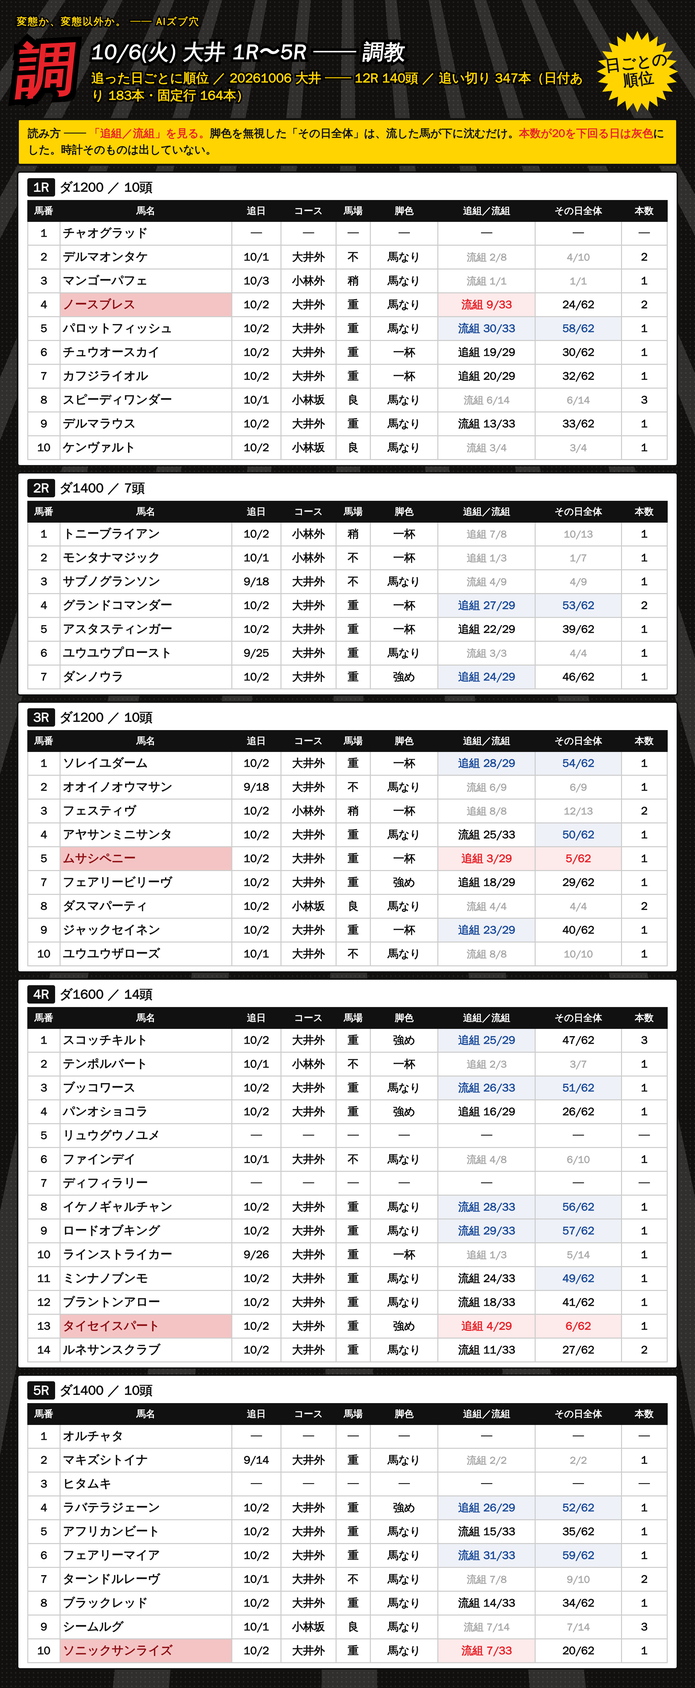
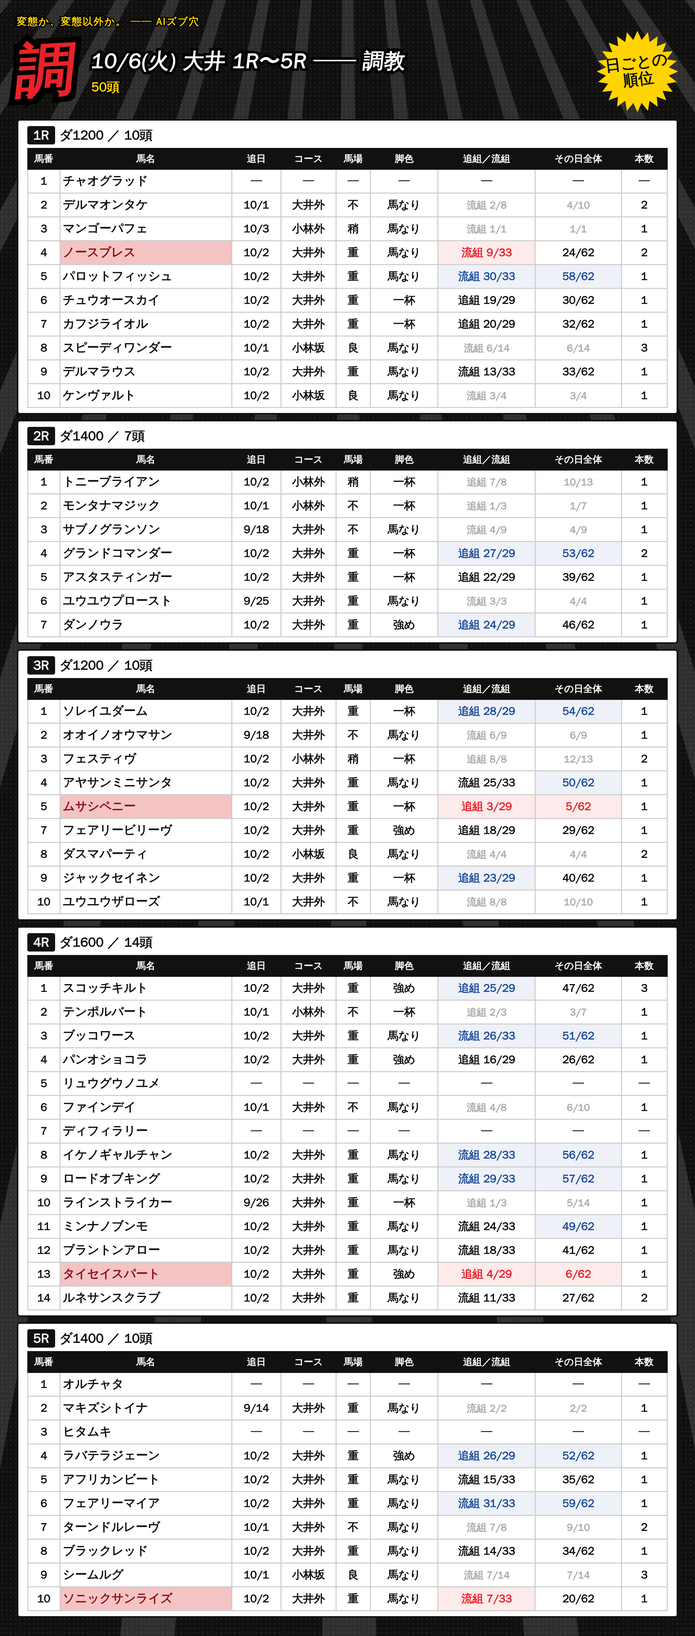
調教カードから読み方の注記と追い切り本数を外した
カードに載っていた3行（追組/流組を見る・その日全体は流した馬が沈むだけ・
本数20未満は灰色）を削除。見出しの「追い切り347本（日付あり183本・
固定行164本）」も頭数だけに差し替えた。

何を見て判断しているかを外に出さないため。

Claude-Session: https://claude.ai/code/session_01RoHscZkr96FNaxQWvUqgEw

diff --git a/notes/live/2026-10-06/ooi_chokyo_1_5.html b/notes/live/2026-10-06/ooi_chokyo_1_5.html
@@ -119,5 +119,5 @@ table.t td.lred{background:#f4c4c4;color:#8f1016;font-weight:900}
 </style></head>
 <body><div class="card"><div class="lines"></div><div class="tone"></div><div class="inner">
 <div class="kicker">変態か、変態以外か。 ── AIズブ穴</div>
-<div class="head"><div class="gekiga">調</div><div class="dateblk"><div class="d1">10/6(火) 大井 1R〜5R ── 調教</div><div class="d2">追った日ごとに順位 ／ 20261006 大井 ── 12R 140頭 ／ 追い切り 347本（日付あり 183本・固定行 164本）</div></div><div class="burst"><span>日ごとの<br>順位</span></div></div>
-<div class="warn">読み方 ── <b>「追組／流組」を見る。</b>脚色を無視した「その日全体」は、流した馬が下に沈むだけ。<b>本数が20を下回る日は灰色</b>にした。時計そのものは出していない。</div><div class="box"><div class="rn"><span>1R</span>ダ1200 ／ 10頭</div><table class="t"><tr><th style="width:56px">馬番</th><th style="width:300px">馬名</th><th style="width:86px">追日</th><th style="width:96px">コース</th><th style="width:60px">馬場</th><th style="width:118px">脚色</th><th style="width:170px">追組／流組</th><th style="width:150px">その日全体</th><th style="width:80px">本数</th></tr><tr><td>1</td><td class="l">チャオグラッド</td><td>─</td><td>─</td><td>─</td><td>─</td><td>─</td><td>─</td><td>─</td></tr><tr><td>2</td><td class="l">デルマオンタケ</td><td>10/1</td><td>大井外</td><td>不</td><td>馬なり</td><td class="thin">流組 2/8</td><td class="thin">4/10</td><td>2</td></tr><tr><td>3</td><td class="l">マンゴーパフェ</td><td>10/3</td><td>小林外</td><td>稍</td><td>馬なり</td><td class="thin">流組 1/1</td><td class="thin">1/1</td><td>1</td></tr><tr><td>4</td><td class="l lred">ノースブレス</td><td>10/2</td><td>大井外</td><td>重</td><td>馬なり</td><td class="hi">流組 9/33</td><td class="">24/62</td><td>2</td></tr><tr><td>5</td><td class="l">パロットフィッシュ</td><td>10/2</td><td>大井外</td><td>重</td><td>馬なり</td><td class="lo">流組 30/33</td><td class="lo">58/62</td><td>1</td></tr><tr><td>6</td><td class="l">チュウオースカイ</td><td>10/2</td><td>大井外</td><td>重</td><td>一杯</td><td class="">追組 19/29</td><td class="">30/62</td><td>1</td></tr><tr><td>7</td><td class="l">カフジライオル</td><td>10/2</td><td>大井外</td><td>重</td><td>一杯</td><td class="">追組 20/29</td><td class="">32/62</td><td>1</td></tr><tr><td>8</td><td class="l">スピーディワンダー</td><td>10/1</td><td>小林坂</td><td>良</td><td>馬なり</td><td class="thin">流組 6/14</td><td class="thin">6/14</td><td>3</td></tr><tr><td>9</td><td class="l">デルマラウス</td><td>10/2</td><td>大井外</td><td>重</td><td>馬なり</td><td class="">流組 13/33</td><td class="">33/62</td><td>1</td></tr><tr><td>10</td><td class="l">ケンヴァルト</td><td>10/2</td><td>小林坂</td><td>良</td><td>馬なり</td><td class="thin">流組 3/4</td><td class="thin">3/4</td><td>1</td></tr></table></div><div class="box"><div class="rn"><span>2R</span>ダ1400 ／ 7頭</div><table class="t"><tr><th style="width:56px">馬番</th><th style="width:300px">馬名</th><th style="width:86px">追日</th><th style="width:96px">コース</th><th style="width:60px">馬場</th><th style="width:118px">脚色</th><th style="width:170px">追組／流組</th><th style="width:150px">その日全体</th><th style="width:80px">本数</th></tr><tr><td>1</td><td class="l">トニーブライアン</td><td>10/2</td><td>小林外</td><td>稍</td><td>一杯</td><td class="thin">追組 7/8</td><td class="thin">10/13</td><td>1</td></tr><tr><td>2</td><td class="l">モンタナマジック</td><td>10/1</td><td>小林外</td><td>不</td><td>一杯</td><td class="thin">追組 1/3</td><td class="thin">1/7</td><td>1</td></tr><tr><td>3</td><td class="l">サブノグランソン</td><td>9/18</td><td>大井外</td><td>不</td><td>馬なり</td><td class="thin">流組 4/9</td><td class="thin">4/9</td><td>1</td></tr><tr><td>4</td><td class="l">グランドコマンダー</td><td>10/2</td><td>大井外</td><td>重</td><td>一杯</td><td class="lo">追組 27/29</td><td class="lo">53/62</td><td>2</td></tr><tr><td>5</td><td class="l">アスタスティンガー</td><td>10/2</td><td>大井外</td><td>重</td><td>一杯</td><td class="">追組 22/29</td><td class="">39/62</td><td>1</td></tr><tr><td>6</td><td class="l">ユウユウプロースト</td><td>9/25</td><td>大井外</td><td>重</td><td>馬なり</td><td class="thin">流組 3/3</td><td class="thin">4/4</td><td>1</td></tr><tr><td>7</td><td class="l">ダンノウラ</td><td>10/2</td><td>大井外</td><td>重</td><td>強め</td><td class="lo">追組 24/29</td><td class="">46/62</td><td>1</td></tr></table></div><div class="box"><div class="rn"><span>3R</span>ダ1200 ／ 10頭</div><table class="t"><tr><th style="width:56px">馬番</th><th style="width:300px">馬名</th><th style="width:86px">追日</th><th style="width:96px">コース</th><th style="width:60px">馬場</th><th style="width:118px">脚色</th><th style="width:170px">追組／流組</th><th style="width:150px">その日全体</th><th style="width:80px">本数</th></tr><tr><td>1</td><td class="l">ソレイユダーム</td><td>10/2</td><td>大井外</td><td>重</td><td>一杯</td><td class="lo">追組 28/29</td><td class="lo">54/62</td><td>1</td></tr><tr><td>2</td><td class="l">オオイノオウマサン</td><td>9/18</td><td>大井外</td><td>不</td><td>馬なり</td><td class="thin">流組 6/9</td><td class="thin">6/9</td><td>1</td></tr><tr><td>3</td><td class="l">フェスティヴ</td><td>10/2</td><td>小林外</td><td>稍</td><td>一杯</td><td class="thin">追組 8/8</td><td class="thin">12/13</td><td>2</td></tr><tr><td>4</td><td class="l">アヤサンミニサンタ</td><td>10/2</td><td>大井外</td><td>重</td><td>馬なり</td><td class="">流組 25/33</td><td class="lo">50/62</td><td>1</td></tr><tr><td>5</td><td class="l lred">ムサシペニー</td><td>10/2</td><td>大井外</td><td>重</td><td>一杯</td><td class="hi">追組 3/29</td><td class="hi">5/62</td><td>1</td></tr><tr><td>7</td><td class="l">フェアリービリーヴ</td><td>10/2</td><td>大井外</td><td>重</td><td>強め</td><td class="">追組 18/29</td><td class="">29/62</td><td>1</td></tr><tr><td>8</td><td class="l">ダスマパーティ</td><td>10/2</td><td>小林坂</td><td>良</td><td>馬なり</td><td class="thin">流組 4/4</td><td class="thin">4/4</td><td>2</td></tr><tr><td>9</td><td class="l">ジャックセイネン</td><td>10/2</td><td>大井外</td><td>重</td><td>一杯</td><td class="lo">追組 23/29</td><td class="">40/62</td><td>1</td></tr><tr><td>10</td><td class="l">ユウユウザローズ</td><td>10/1</td><td>大井外</td><td>不</td><td>馬なり</td><td class="thin">流組 8/8</td><td class="thin">10/10</td><td>1</td></tr></table></div><div class="box"><div class="rn"><span>4R</span>ダ1600 ／ 14頭</div><table class="t"><tr><th style="width:56px">馬番</th><th style="width:300px">馬名</th><th style="width:86px">追日</th><th style="width:96px">コース</th><th style="width:60px">馬場</th><th style="width:118px">脚色</th><th style="width:170px">追組／流組</th><th style="width:150px">その日全体</th><th style="width:80px">本数</th></tr><tr><td>1</td><td class="l">スコッチキルト</td><td>10/2</td><td>大井外</td><td>重</td><td>強め</td><td class="lo">追組 25/29</td><td class="">47/62</td><td>3</td></tr><tr><td>2</td><td class="l">テンポルバート</td><td>10/1</td><td>小林外</td><td>不</td><td>一杯</td><td class="thin">追組 2/3</td><td class="thin">3/7</td><td>1</td></tr><tr><td>3</td><td class="l">ブッコワース</td><td>10/2</td><td>大井外</td><td>重</td><td>馬なり</td><td class="lo">流組 26/33</td><td class="lo">51/62</td><td>1</td></tr><tr><td>4</td><td class="l">パンオショコラ</td><td>10/2</td><td>大井外</td><td>重</td><td>強め</td><td class="">追組 16/29</td><td class="">26/62</td><td>1</td></tr><tr><td>5</td><td class="l">リュウグウノユメ</td><td>─</td><td>─</td><td>─</td><td>─</td><td>─</td><td>─</td><td>─</td></tr><tr><td>6</td><td class="l">ファインデイ</td><td>10/1</td><td>大井外</td><td>不</td><td>馬なり</td><td class="thin">流組 4/8</td><td class="thin">6/10</td><td>1</td></tr><tr><td>7</td><td class="l">ディフィラリー</td><td>─</td><td>─</td><td>─</td><td>─</td><td>─</td><td>─</td><td>─</td></tr><tr><td>8</td><td class="l">イケノギャルチャン</td><td>10/2</td><td>大井外</td><td>重</td><td>馬なり</td><td class="lo">流組 28/33</td><td class="lo">56/62</td><td>1</td></tr><tr><td>9</td><td class="l">ロードオブキング</td><td>10/2</td><td>大井外</td><td>重</td><td>馬なり</td><td class="lo">流組 29/33</td><td class="lo">57/62</td><td>1</td></tr><tr><td>10</td><td class="l">ラインストライカー</td><td>9/26</td><td>大井外</td><td>重</td><td>一杯</td><td class="thin">追組 1/3</td><td class="thin">5/14</td><td>1</td></tr><tr><td>11</td><td class="l">ミンナノブンモ</td><td>10/2</td><td>大井外</td><td>重</td><td>馬なり</td><td class="">流組 24/33</td><td class="lo">49/62</td><td>1</td></tr><tr><td>12</td><td class="l">ブラントンアロー</td><td>10/2</td><td>大井外</td><td>重</td><td>馬なり</td><td class="">流組 18/33</td><td class="">41/62</td><td>1</td></tr><tr><td>13</td><td class="l lred">タイセイスパート</td><td>10/2</td><td>大井外</td><td>重</td><td>強め</td><td class="hi">追組 4/29</td><td class="hi">6/62</td><td>1</td></tr><tr><td>14</td><td class="l">ルネサンスクラブ</td><td>10/2</td><td>大井外</td><td>重</td><td>馬なり</td><td class="">流組 11/33</td><td class="">27/62</td><td>2</td></tr></table></div><div class="box"><div class="rn"><span>5R</span>ダ1400 ／ 10頭</div><table class="t"><tr><th style="width:56px">馬番</th><th style="width:300px">馬名</th><th style="width:86px">追日</th><th style="width:96px">コース</th><th style="width:60px">馬場</th><th style="width:118px">脚色</th><th style="width:170px">追組／流組</th><th style="width:150px">その日全体</th><th style="width:80px">本数</th></tr><tr><td>1</td><td class="l">オルチャタ</td><td>─</td><td>─</td><td>─</td><td>─</td><td>─</td><td>─</td><td>─</td></tr><tr><td>2</td><td class="l">マキズシトイナ</td><td>9/14</td><td>大井外</td><td>重</td><td>馬なり</td><td class="thin">流組 2/2</td><td class="thin">2/2</td><td>1</td></tr><tr><td>3</td><td class="l">ヒタムキ</td><td>─</td><td>─</td><td>─</td><td>─</td><td>─</td><td>─</td><td>─</td></tr><tr><td>4</td><td class="l">ラバテラジェーン</td><td>10/2</td><td>大井外</td><td>重</td><td>強め</td><td class="lo">追組 26/29</td><td class="lo">52/62</td><td>1</td></tr><tr><td>5</td><td class="l">アフリカンビート</td><td>10/2</td><td>大井外</td><td>重</td><td>馬なり</td><td class="">流組 15/33</td><td class="">35/62</td><td>1</td></tr><tr><td>6</td><td class="l">フェアリーマイア</td><td>10/2</td><td>大井外</td><td>重</td><td>馬なり</td><td class="lo">流組 31/33</td><td class="lo">59/62</td><td>1</td></tr><tr><td>7</td><td class="l">ターンドルレーヴ</td><td>10/1</td><td>大井外</td><td>不</td><td>馬なり</td><td class="thin">流組 7/8</td><td class="thin">9/10</td><td>2</td></tr><tr><td>8</td><td class="l">ブラックレッド</td><td>10/2</td><td>大井外</td><td>重</td><td>馬なり</td><td class="">流組 14/33</td><td class="">34/62</td><td>1</td></tr><tr><td>9</td><td class="l">シームルグ</td><td>10/1</td><td>小林坂</td><td>良</td><td>馬なり</td><td class="thin">流組 7/14</td><td class="thin">7/14</td><td>3</td></tr><tr><td>10</td><td class="l lred">ソニックサンライズ</td><td>10/2</td><td>大井外</td><td>重</td><td>馬なり</td><td class="hi">流組 7/33</td><td class="">20/62</td><td>1</td></tr></table></div></div></div></body></html>
+<div class="head"><div class="gekiga">調</div><div class="dateblk"><div class="d1">10/6(火) 大井 1R〜5R ── 調教</div><div class="d2">50頭</div></div><div class="burst"><span>日ごとの<br>順位</span></div></div>
+<div class="box"><div class="rn"><span>1R</span>ダ1200 ／ 10頭</div><table class="t"><tr><th style="width:56px">馬番</th><th style="width:300px">馬名</th><th style="width:86px">追日</th><th style="width:96px">コース</th><th style="width:60px">馬場</th><th style="width:118px">脚色</th><th style="width:170px">追組／流組</th><th style="width:150px">その日全体</th><th style="width:80px">本数</th></tr><tr><td>1</td><td class="l">チャオグラッド</td><td>─</td><td>─</td><td>─</td><td>─</td><td>─</td><td>─</td><td>─</td></tr><tr><td>2</td><td class="l">デルマオンタケ</td><td>10/1</td><td>大井外</td><td>不</td><td>馬なり</td><td class="thin">流組 2/8</td><td class="thin">4/10</td><td>2</td></tr><tr><td>3</td><td class="l">マンゴーパフェ</td><td>10/3</td><td>小林外</td><td>稍</td><td>馬なり</td><td class="thin">流組 1/1</td><td class="thin">1/1</td><td>1</td></tr><tr><td>4</td><td class="l lred">ノースブレス</td><td>10/2</td><td>大井外</td><td>重</td><td>馬なり</td><td class="hi">流組 9/33</td><td class="">24/62</td><td>2</td></tr><tr><td>5</td><td class="l">パロットフィッシュ</td><td>10/2</td><td>大井外</td><td>重</td><td>馬なり</td><td class="lo">流組 30/33</td><td class="lo">58/62</td><td>1</td></tr><tr><td>6</td><td class="l">チュウオースカイ</td><td>10/2</td><td>大井外</td><td>重</td><td>一杯</td><td class="">追組 19/29</td><td class="">30/62</td><td>1</td></tr><tr><td>7</td><td class="l">カフジライオル</td><td>10/2</td><td>大井外</td><td>重</td><td>一杯</td><td class="">追組 20/29</td><td class="">32/62</td><td>1</td></tr><tr><td>8</td><td class="l">スピーディワンダー</td><td>10/1</td><td>小林坂</td><td>良</td><td>馬なり</td><td class="thin">流組 6/14</td><td class="thin">6/14</td><td>3</td></tr><tr><td>9</td><td class="l">デルマラウス</td><td>10/2</td><td>大井外</td><td>重</td><td>馬なり</td><td class="">流組 13/33</td><td class="">33/62</td><td>1</td></tr><tr><td>10</td><td class="l">ケンヴァルト</td><td>10/2</td><td>小林坂</td><td>良</td><td>馬なり</td><td class="thin">流組 3/4</td><td class="thin">3/4</td><td>1</td></tr></table></div><div class="box"><div class="rn"><span>2R</span>ダ1400 ／ 7頭</div><table class="t"><tr><th style="width:56px">馬番</th><th style="width:300px">馬名</th><th style="width:86px">追日</th><th style="width:96px">コース</th><th style="width:60px">馬場</th><th style="width:118px">脚色</th><th style="width:170px">追組／流組</th><th style="width:150px">その日全体</th><th style="width:80px">本数</th></tr><tr><td>1</td><td class="l">トニーブライアン</td><td>10/2</td><td>小林外</td><td>稍</td><td>一杯</td><td class="thin">追組 7/8</td><td class="thin">10/13</td><td>1</td></tr><tr><td>2</td><td class="l">モンタナマジック</td><td>10/1</td><td>小林外</td><td>不</td><td>一杯</td><td class="thin">追組 1/3</td><td class="thin">1/7</td><td>1</td></tr><tr><td>3</td><td class="l">サブノグランソン</td><td>9/18</td><td>大井外</td><td>不</td><td>馬なり</td><td class="thin">流組 4/9</td><td class="thin">4/9</td><td>1</td></tr><tr><td>4</td><td class="l">グランドコマンダー</td><td>10/2</td><td>大井外</td><td>重</td><td>一杯</td><td class="lo">追組 27/29</td><td class="lo">53/62</td><td>2</td></tr><tr><td>5</td><td class="l">アスタスティンガー</td><td>10/2</td><td>大井外</td><td>重</td><td>一杯</td><td class="">追組 22/29</td><td class="">39/62</td><td>1</td></tr><tr><td>6</td><td class="l">ユウユウプロースト</td><td>9/25</td><td>大井外</td><td>重</td><td>馬なり</td><td class="thin">流組 3/3</td><td class="thin">4/4</td><td>1</td></tr><tr><td>7</td><td class="l">ダンノウラ</td><td>10/2</td><td>大井外</td><td>重</td><td>強め</td><td class="lo">追組 24/29</td><td class="">46/62</td><td>1</td></tr></table></div><div class="box"><div class="rn"><span>3R</span>ダ1200 ／ 10頭</div><table class="t"><tr><th style="width:56px">馬番</th><th style="width:300px">馬名</th><th style="width:86px">追日</th><th style="width:96px">コース</th><th style="width:60px">馬場</th><th style="width:118px">脚色</th><th style="width:170px">追組／流組</th><th style="width:150px">その日全体</th><th style="width:80px">本数</th></tr><tr><td>1</td><td class="l">ソレイユダーム</td><td>10/2</td><td>大井外</td><td>重</td><td>一杯</td><td class="lo">追組 28/29</td><td class="lo">54/62</td><td>1</td></tr><tr><td>2</td><td class="l">オオイノオウマサン</td><td>9/18</td><td>大井外</td><td>不</td><td>馬なり</td><td class="thin">流組 6/9</td><td class="thin">6/9</td><td>1</td></tr><tr><td>3</td><td class="l">フェスティヴ</td><td>10/2</td><td>小林外</td><td>稍</td><td>一杯</td><td class="thin">追組 8/8</td><td class="thin">12/13</td><td>2</td></tr><tr><td>4</td><td class="l">アヤサンミニサンタ</td><td>10/2</td><td>大井外</td><td>重</td><td>馬なり</td><td class="">流組 25/33</td><td class="lo">50/62</td><td>1</td></tr><tr><td>5</td><td class="l lred">ムサシペニー</td><td>10/2</td><td>大井外</td><td>重</td><td>一杯</td><td class="hi">追組 3/29</td><td class="hi">5/62</td><td>1</td></tr><tr><td>7</td><td class="l">フェアリービリーヴ</td><td>10/2</td><td>大井外</td><td>重</td><td>強め</td><td class="">追組 18/29</td><td class="">29/62</td><td>1</td></tr><tr><td>8</td><td class="l">ダスマパーティ</td><td>10/2</td><td>小林坂</td><td>良</td><td>馬なり</td><td class="thin">流組 4/4</td><td class="thin">4/4</td><td>2</td></tr><tr><td>9</td><td class="l">ジャックセイネン</td><td>10/2</td><td>大井外</td><td>重</td><td>一杯</td><td class="lo">追組 23/29</td><td class="">40/62</td><td>1</td></tr><tr><td>10</td><td class="l">ユウユウザローズ</td><td>10/1</td><td>大井外</td><td>不</td><td>馬なり</td><td class="thin">流組 8/8</td><td class="thin">10/10</td><td>1</td></tr></table></div><div class="box"><div class="rn"><span>4R</span>ダ1600 ／ 14頭</div><table class="t"><tr><th style="width:56px">馬番</th><th style="width:300px">馬名</th><th style="width:86px">追日</th><th style="width:96px">コース</th><th style="width:60px">馬場</th><th style="width:118px">脚色</th><th style="width:170px">追組／流組</th><th style="width:150px">その日全体</th><th style="width:80px">本数</th></tr><tr><td>1</td><td class="l">スコッチキルト</td><td>10/2</td><td>大井外</td><td>重</td><td>強め</td><td class="lo">追組 25/29</td><td class="">47/62</td><td>3</td></tr><tr><td>2</td><td class="l">テンポルバート</td><td>10/1</td><td>小林外</td><td>不</td><td>一杯</td><td class="thin">追組 2/3</td><td class="thin">3/7</td><td>1</td></tr><tr><td>3</td><td class="l">ブッコワース</td><td>10/2</td><td>大井外</td><td>重</td><td>馬なり</td><td class="lo">流組 26/33</td><td class="lo">51/62</td><td>1</td></tr><tr><td>4</td><td class="l">パンオショコラ</td><td>10/2</td><td>大井外</td><td>重</td><td>強め</td><td class="">追組 16/29</td><td class="">26/62</td><td>1</td></tr><tr><td>5</td><td class="l">リュウグウノユメ</td><td>─</td><td>─</td><td>─</td><td>─</td><td>─</td><td>─</td><td>─</td></tr><tr><td>6</td><td class="l">ファインデイ</td><td>10/1</td><td>大井外</td><td>不</td><td>馬なり</td><td class="thin">流組 4/8</td><td class="thin">6/10</td><td>1</td></tr><tr><td>7</td><td class="l">ディフィラリー</td><td>─</td><td>─</td><td>─</td><td>─</td><td>─</td><td>─</td><td>─</td></tr><tr><td>8</td><td class="l">イケノギャルチャン</td><td>10/2</td><td>大井外</td><td>重</td><td>馬なり</td><td class="lo">流組 28/33</td><td class="lo">56/62</td><td>1</td></tr><tr><td>9</td><td class="l">ロードオブキング</td><td>10/2</td><td>大井外</td><td>重</td><td>馬なり</td><td class="lo">流組 29/33</td><td class="lo">57/62</td><td>1</td></tr><tr><td>10</td><td class="l">ラインストライカー</td><td>9/26</td><td>大井外</td><td>重</td><td>一杯</td><td class="thin">追組 1/3</td><td class="thin">5/14</td><td>1</td></tr><tr><td>11</td><td class="l">ミンナノブンモ</td><td>10/2</td><td>大井外</td><td>重</td><td>馬なり</td><td class="">流組 24/33</td><td class="lo">49/62</td><td>1</td></tr><tr><td>12</td><td class="l">ブラントンアロー</td><td>10/2</td><td>大井外</td><td>重</td><td>馬なり</td><td class="">流組 18/33</td><td class="">41/62</td><td>1</td></tr><tr><td>13</td><td class="l lred">タイセイスパート</td><td>10/2</td><td>大井外</td><td>重</td><td>強め</td><td class="hi">追組 4/29</td><td class="hi">6/62</td><td>1</td></tr><tr><td>14</td><td class="l">ルネサンスクラブ</td><td>10/2</td><td>大井外</td><td>重</td><td>馬なり</td><td class="">流組 11/33</td><td class="">27/62</td><td>2</td></tr></table></div><div class="box"><div class="rn"><span>5R</span>ダ1400 ／ 10頭</div><table class="t"><tr><th style="width:56px">馬番</th><th style="width:300px">馬名</th><th style="width:86px">追日</th><th style="width:96px">コース</th><th style="width:60px">馬場</th><th style="width:118px">脚色</th><th style="width:170px">追組／流組</th><th style="width:150px">その日全体</th><th style="width:80px">本数</th></tr><tr><td>1</td><td class="l">オルチャタ</td><td>─</td><td>─</td><td>─</td><td>─</td><td>─</td><td>─</td><td>─</td></tr><tr><td>2</td><td class="l">マキズシトイナ</td><td>9/14</td><td>大井外</td><td>重</td><td>馬なり</td><td class="thin">流組 2/2</td><td class="thin">2/2</td><td>1</td></tr><tr><td>3</td><td class="l">ヒタムキ</td><td>─</td><td>─</td><td>─</td><td>─</td><td>─</td><td>─</td><td>─</td></tr><tr><td>4</td><td class="l">ラバテラジェーン</td><td>10/2</td><td>大井外</td><td>重</td><td>強め</td><td class="lo">追組 26/29</td><td class="lo">52/62</td><td>1</td></tr><tr><td>5</td><td class="l">アフリカンビート</td><td>10/2</td><td>大井外</td><td>重</td><td>馬なり</td><td class="">流組 15/33</td><td class="">35/62</td><td>1</td></tr><tr><td>6</td><td class="l">フェアリーマイア</td><td>10/2</td><td>大井外</td><td>重</td><td>馬なり</td><td class="lo">流組 31/33</td><td class="lo">59/62</td><td>1</td></tr><tr><td>7</td><td class="l">ターンドルレーヴ</td><td>10/1</td><td>大井外</td><td>不</td><td>馬なり</td><td class="thin">流組 7/8</td><td class="thin">9/10</td><td>2</td></tr><tr><td>8</td><td class="l">ブラックレッド</td><td>10/2</td><td>大井外</td><td>重</td><td>馬なり</td><td class="">流組 14/33</td><td class="">34/62</td><td>1</td></tr><tr><td>9</td><td class="l">シームルグ</td><td>10/1</td><td>小林坂</td><td>良</td><td>馬なり</td><td class="thin">流組 7/14</td><td class="thin">7/14</td><td>3</td></tr><tr><td>10</td><td class="l lred">ソニックサンライズ</td><td>10/2</td><td>大井外</td><td>重</td><td>馬なり</td><td class="hi">流組 7/33</td><td class="">20/62</td><td>1</td></tr></table></div></div></div></body></html>

diff --git a/scripts/chokyo_card.py b/scripts/chokyo_card.py
@@ -37,14 +37,9 @@ table.t td.lred{background:#f4c4c4;color:#8f1016;font-weight:900}
 </style></head>
 """
 MIN_POOL = 20
-WARN_COLOR = ('<div class="warn">読み方 ── <b>「追組／流組」を見る。</b>'
-              '脚色を無視した「その日全体」は、流した馬が下に沈むだけ。'
-              '<b>本数が20を下回る日は灰色</b>にした。'
-              '時計そのものは出していない。</div>')
-WARN_PLAIN = ('<div class="warn">読み方 ── <b>「追組／流組」を見る。</b>'
-              '脚色を無視した「その日全体」は、流した馬が下に沈むだけ。'
-              '分母が小さい日は順位に意味がないので、頭数を見て判断する。'
-              '色は付けていない。時計そのものは出していない。</div>')
+# 読み方の注記はカードに載せない（何を見ているかを外に出さないため）。
+WARN_COLOR = ''
+WARN_PLAIN = ''
 HEAD = re.compile(r"^■ (\d+)R (\S+) ── (\d+)頭")
 ROW = re.compile(
     r"^\s*(\d+) (.+?)\s+(\d\d/\d\d) (\S+) ([良稍重不]) ／ (\S+?)\s*\(負荷[\d.]+\) ／ "
@@ -172,9 +167,10 @@ def main() -> None:
             '<div class="kicker">変態か、変態以外か。 ── AIズブ穴</div>\n'
             '<div class="head"><div class="gekiga">調</div>'
             '<div class="dateblk"><div class="d1">%s %dR〜%dR ── 調教</div>'
-            '<div class="d2">追った日ごとに順位 ／ %s</div></div>'
+            '<div class="d2">%d頭</div></div>'
             '<div class="burst"><span>日ごとの<br>順位</span></div></div>\n'
-            % (a.title, use[0]["r"], use[-1]["r"], meta)
+            % (a.title, use[0]["r"], use[-1]["r"],
+               sum(len(r["rows"]) for r in use))
             + (WARN_PLAIN if a.no_color else WARN_COLOR)
             + "".join(race_block(r) for r in use)
             + "</div></div></body></html>")
